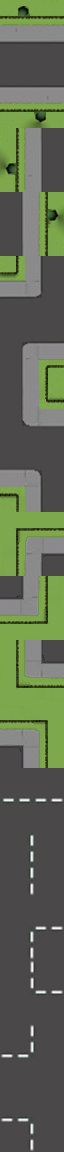
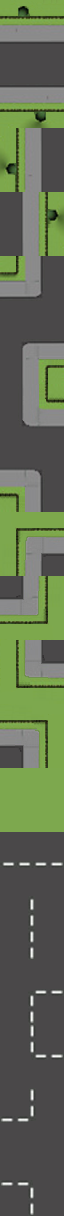
Tile assets

diff --git a/Unstable/StarFighter/StarFighter/Tile.h b/Unstable/StarFighter/StarFighter/Tile.h
@@ -17,6 +17,7 @@ enum TileType
 	Tile_StreetAngleExternal_1,
 	Tile_StreetAngleExternal_2,
 	Tile_StreetAngleExternal_3,
+	Tile_Park_0,
 	Tile_Road,
 	//Tile_RoadVertical,
 	Tile_Building,
